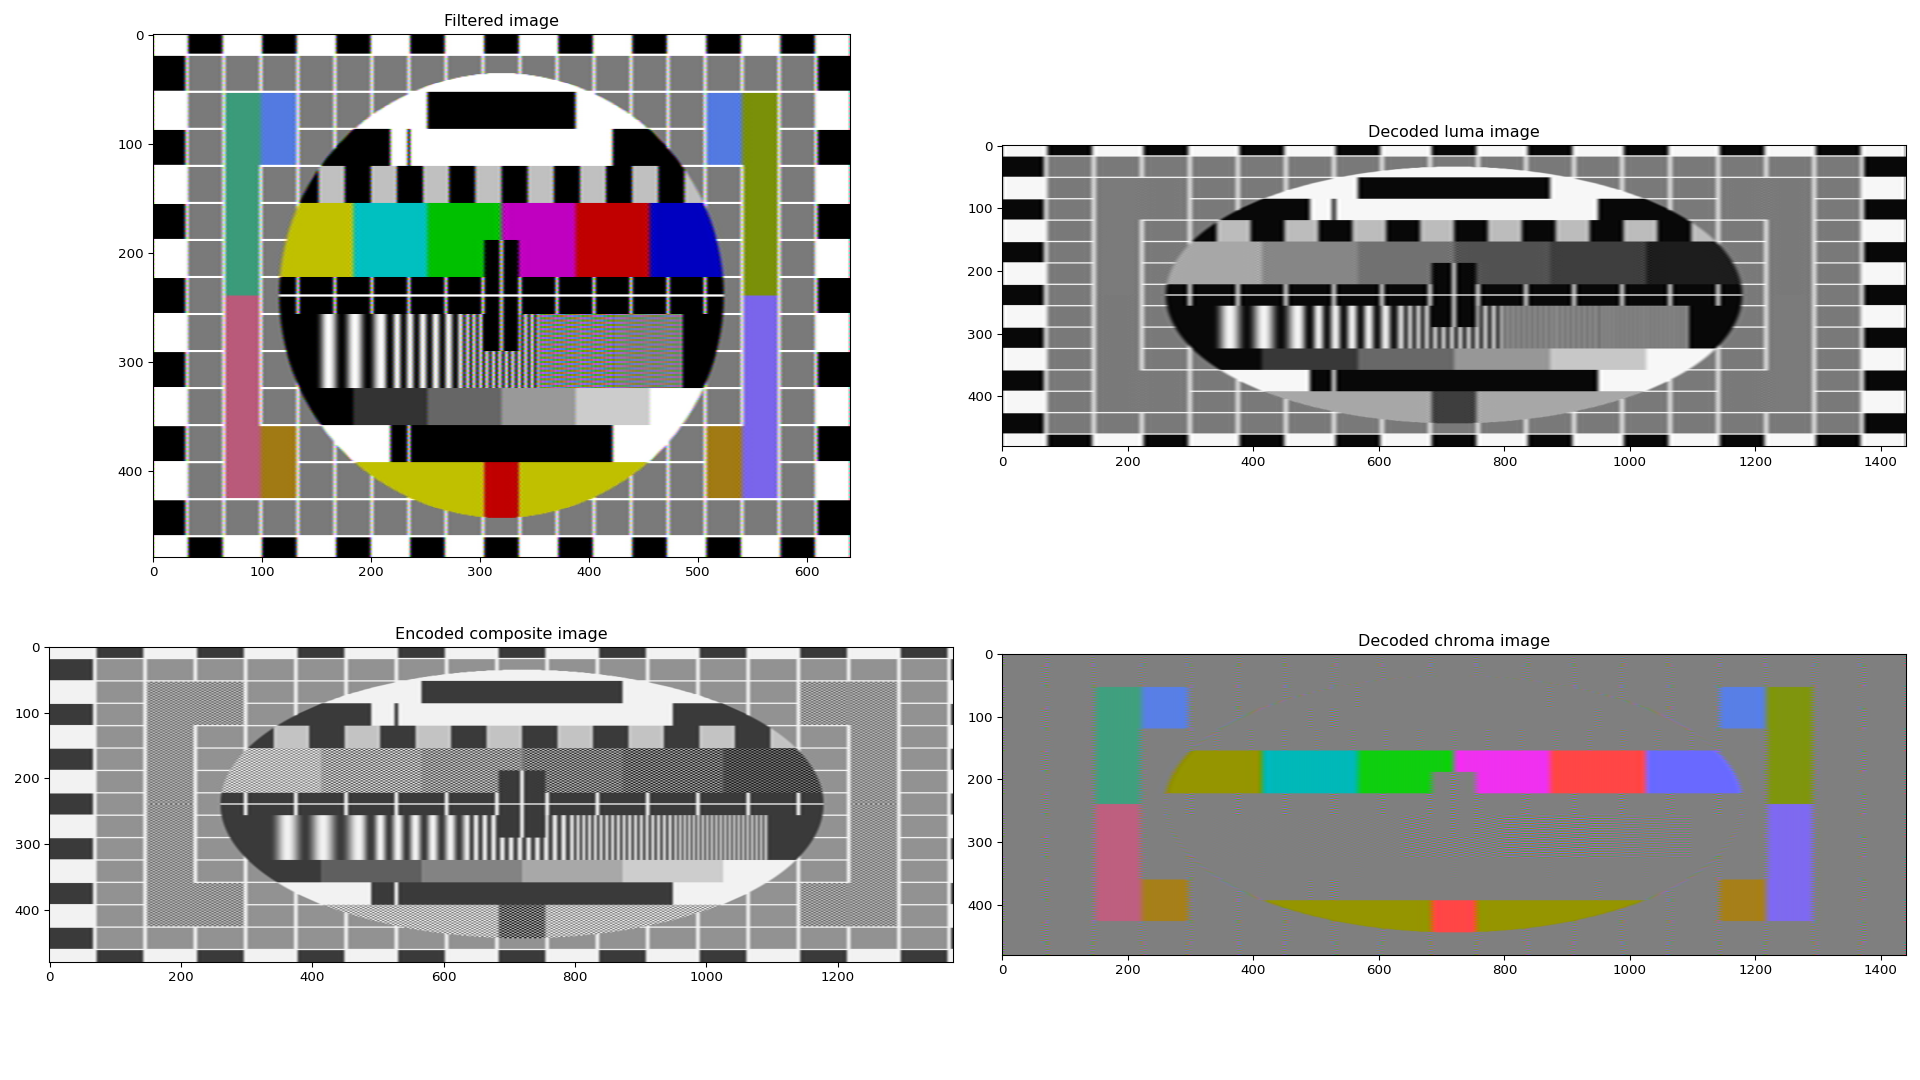
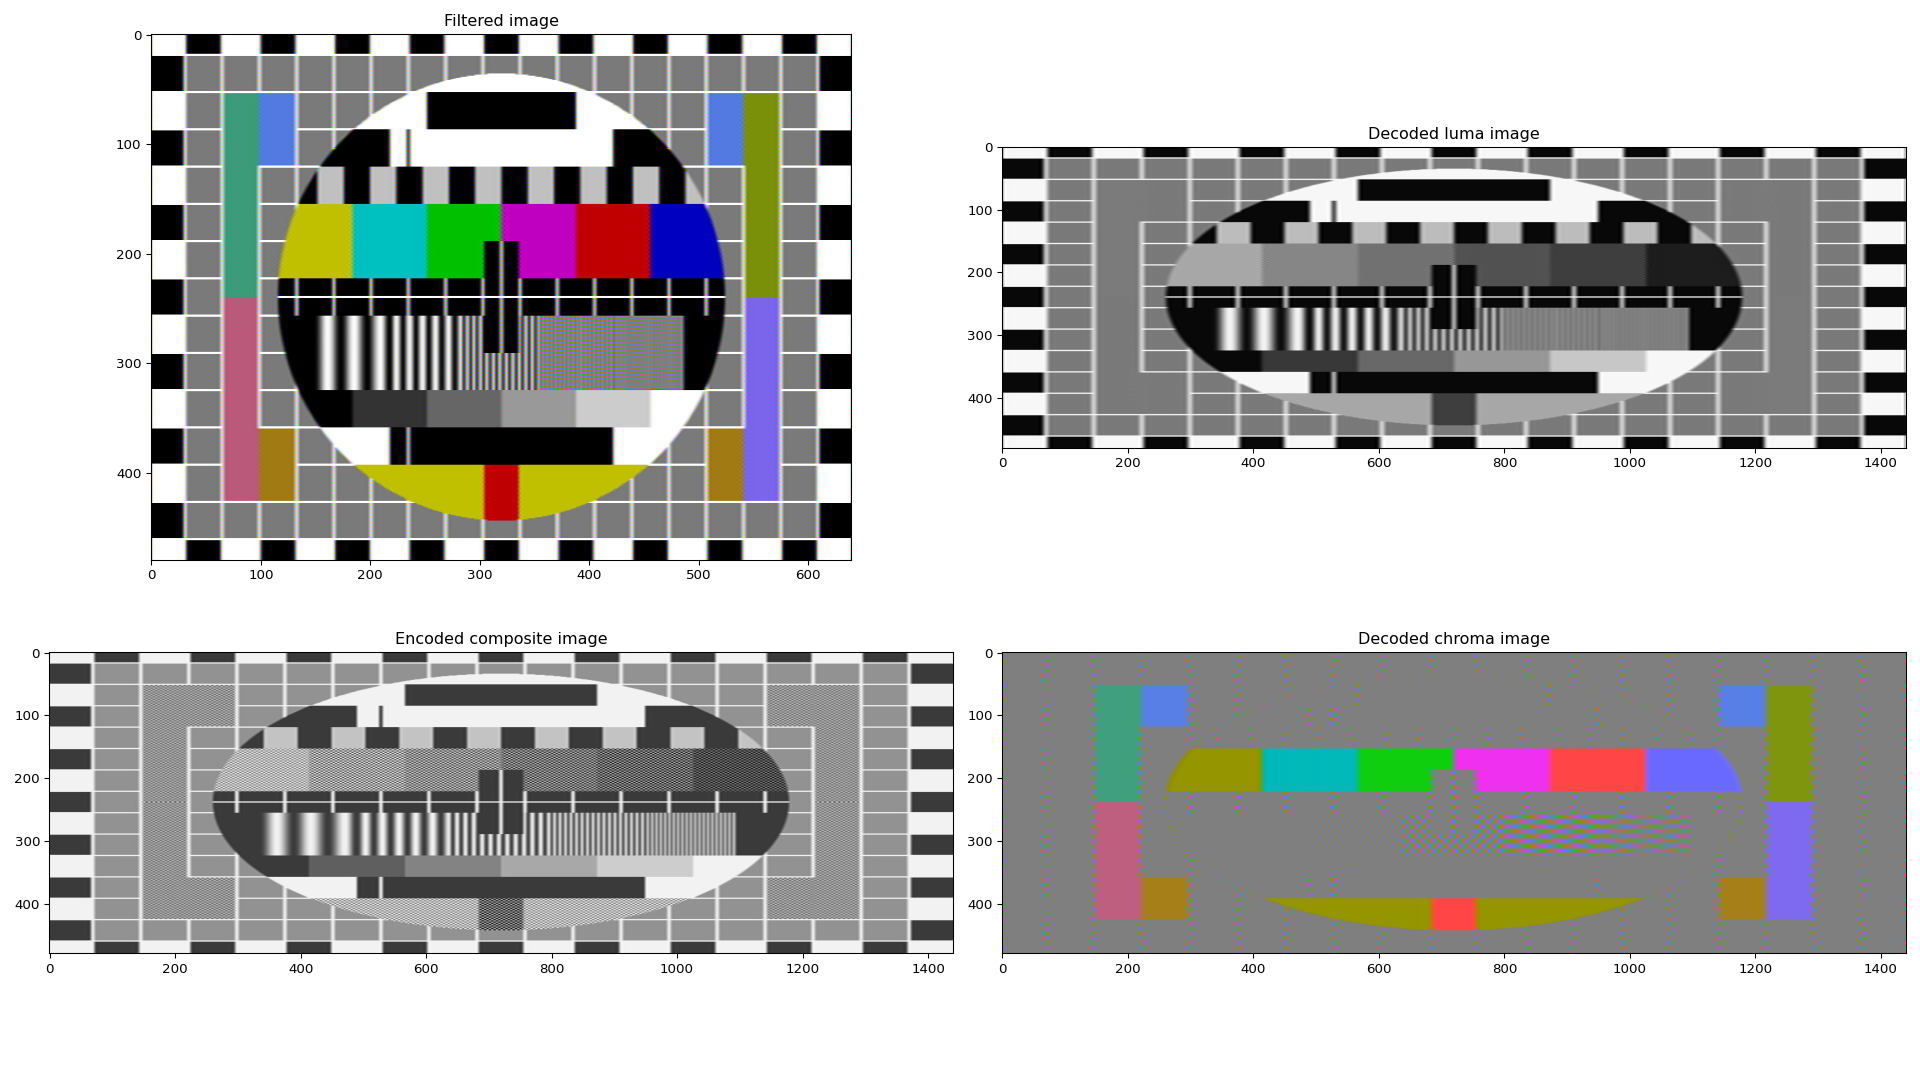
fix issue with debug plot signal buffer cropping

diff --git a/composite_filter.py b/composite_filter.py
@@ -24,7 +24,7 @@ from PIL import Image
 
 parser=argparse.ArgumentParser(
     description="yet another composite filter",
-    epilog="version 0.0.0")
+    epilog="version 0.0.1")
 parser.add_argument("input_image", type=str, help="input image")
 parser.add_argument("-dbg", "--debug", action="store_true", help="enable debug plot")
 parser.add_argument("-skp", "--skip-plot", action="store_true", help="skip plot")
@@ -174,7 +174,7 @@ if args.debug:
     ax.set_title("Filtered image")
     ax.imshow(imageout)
     
-    active_scanline_buffer = active_scanline_buffer[:, (sample_pad):(YUV_buffer.shape[1] - sample_pad)]
+    active_scanline_buffer = active_scanline_buffer[:, (sample_pad):(active_scanline_buffer.shape[1] - sample_pad)]
     active_scanline_buffer -= luma_pedestal
     active_scanline_buffer /= 0.925
     ax_composite.set_title("Encoded composite image")

diff --git a/README.md b/README.md
@@ -51,7 +51,7 @@ options:
   -rsm RESOLUTION_MULTIPLIER, --resolution-multiplier RESOLUTION_MULTIPLIER
                         multiply the samplerate by x. makes the image sharper at the cost of filtering time
 
-version 0.0.0
+version 0.0.1
 ```
 
 ## License
